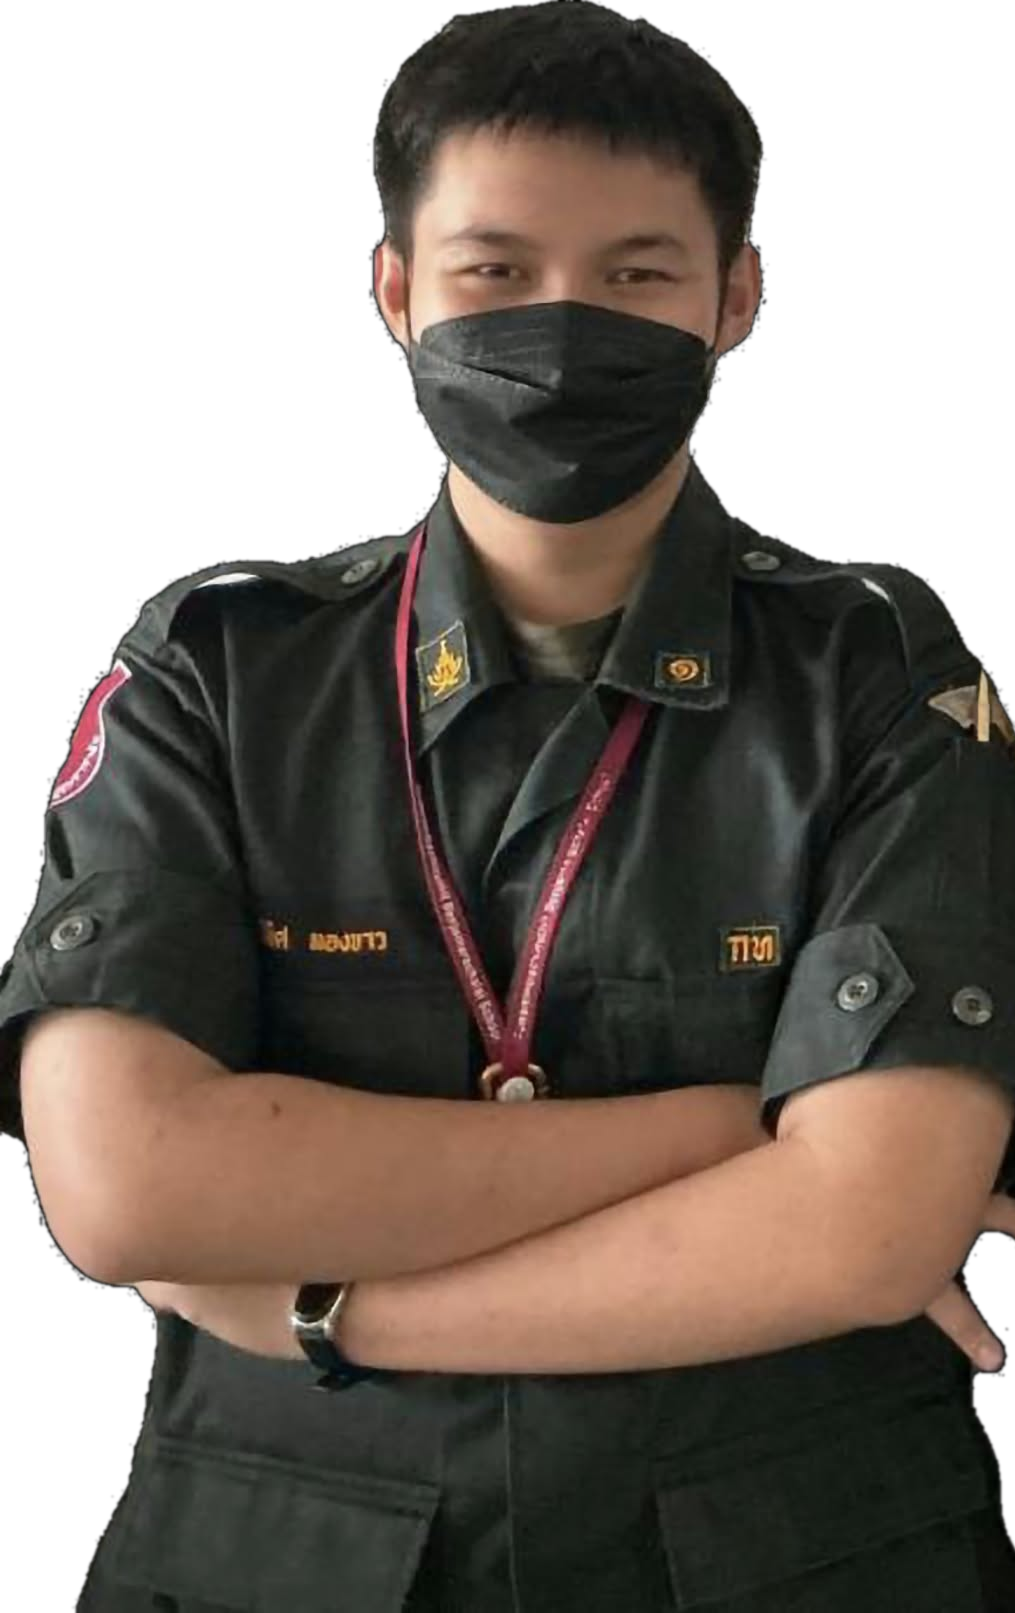
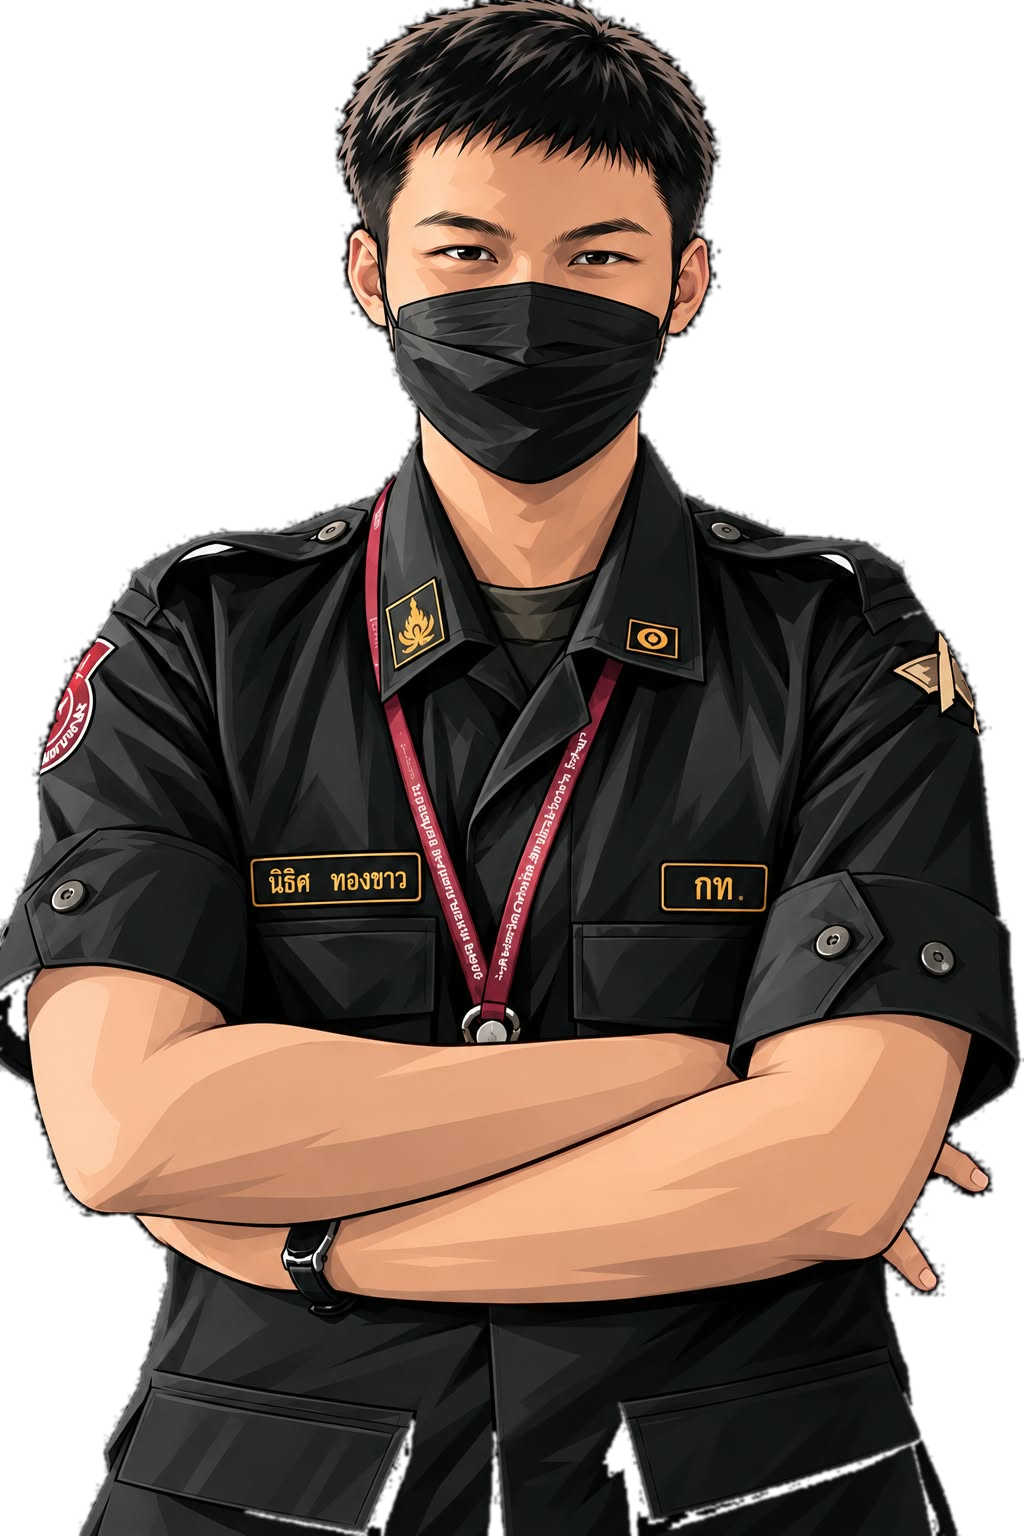
pushๆๆ

diff --git a/index.html b/index.html
@@ -280,6 +280,14 @@
   .ct-arrow { margin-left:auto; font-family:"JetBrains Mono",monospace; color:#64748B; transition:transform .25s ease, color .25s ease; }
   .ct-row:hover .ct-value, .ct-row:hover .ct-arrow { color:#00f0ff; }
   .ct-row:hover .ct-arrow { transform:translateX(4px); }
+  /* closing line: big Thai, the highlight shimmers cyan -> blue */
+  .ct-closing { margin-top:2.25rem; font-family:"Noto Sans Thai","Inter",sans-serif; font-weight:800; font-size:clamp(24px,2.6vw,36px);
+    line-height:1.4; color:#F1F5F9; }
+  .ct-closing .st-hl { background-image:linear-gradient(90deg,#00f0ff,#0066ff,#38bdf8,#00f0ff); background-size:300% 100%;
+    animation:ctShimmer 5s linear infinite; }
+  @keyframes ctShimmer { to { background-position:300% 0; } }
+  .ct-sign { display:block; margin-top:.35rem; font-family:"JetBrains Mono",monospace; font-weight:500; font-size:13px; color:#64748B; }
+  @media (prefers-reduced-motion: reduce) { .ct-closing .st-hl { animation:none; } }
   /* your own comment on the project: set apart from the facts */
   .st-note { margin-top:1.75rem; padding:.1rem 0 .1rem 1rem; position:relative; }
   .st-note::before { content:""; position:absolute; left:0; top:0; bottom:0; width:2px; border-radius:2px;
@@ -551,6 +559,7 @@ const SITE = {
   contact: {
     headline: "Get in touch", highlight: "touch",
     body: "Happy to answer questions about my projects or walk through the code.",
+    closing: "ล้มแล้วลุก แต่ไม่ใช่ตุ๊กตา", closingHighlight: "ล้มแล้วลุก",   // last line of the site
     photo: "images/contact.png",   // transparent PNG shown on the left; "" = none
     photoAlt: "Ryu"
   }
@@ -847,6 +856,7 @@ function contactHTML(n) {
         <h2 class="ct-title">${rich(c.headline, c.highlight)}</h2>
         <p class="ct-body">${esc(c.body)}</p>
         <div class="ct-list">${rows}</div>
+        ${has(c.closing) ? `<p class="ct-closing">${rich(c.closing, c.closingHighlight)}<span class="ct-sign">— ${esc(SITE.name)}</span></p>` : ""}
       </div>
     </div>
   </section>`;
